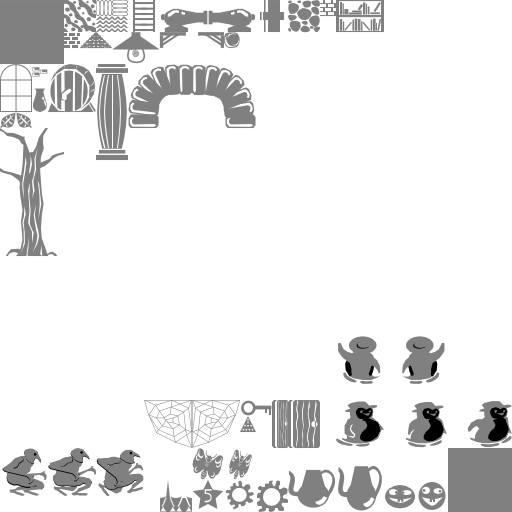
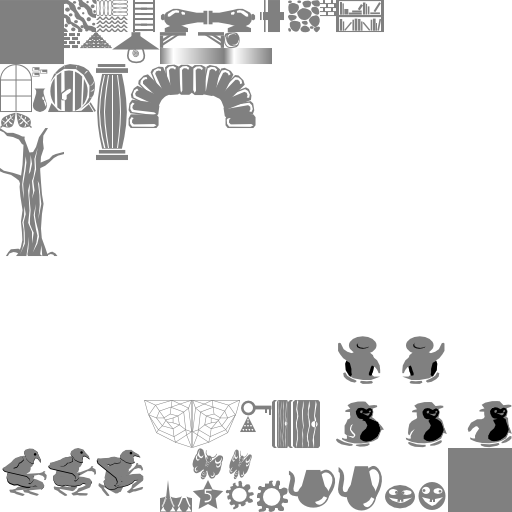
pistons/new room

Changed region(s): [[0.3125, 0.0938, 0.5312, 0.125]]

diff --git a/src/enemy.js b/src/enemy.js
@@ -72,6 +72,28 @@ var vertical_move = function(game_state, sprite, enemy) {
     }
 };
 
+var piston_move = function(game_state, sprite, enemy) {
+    if(!sprite["piston_body"]) {
+        var body = game_state.create_block(sprite.x + 8, sprite.y, "piston2", game_state.enemies, sprite.tint);
+//        cannonball.anchor.x = 0.5;
+//        cannonball.anchor.y = 0.5;
+        sprite["piston_body"] = body;
+    }
+
+    if(sprite.body.velocity.y == 0) sprite.body.velocity.y = enemy.speed;
+    var to_up = sprite.body.velocity.y < 0;
+    var flip = (sprite.body.touching.down && !to_up) ||
+        (sprite.y <= 0 && to_up) ||
+        (sprite.y >= game_state.game.height - sprite.height && !to_up);
+    if (flip) {
+        sprite.body.velocity.y *= -1;
+    }
+
+    sprite.piston_body.height = sprite.y - sprite.piston_body.y;
+
+
+};
+
 var oscillate_move = function(game_state, sprite, enemy) {
     if(!sprite["delta_offset"]) sprite["delta_offset"] = 0.05;
     sprite.anchor.y += sprite.delta_offset;
@@ -93,6 +115,10 @@ var cannonball_move = function(game_state, sprite, enemy) {
     if(hit) sprite.kill();
     else sprite.rotation += sprite.cannon_dir * 0.025 * game_state.game.time.elapsed;
 };
+
+var no_move = function(game_state, sprite, enemy) {
+
+}
 
 var cannon1_move = function(game_state, sprite, enemy) {
     create_cannonball(1, game_state, sprite, enemy);
@@ -174,6 +200,18 @@ var ENEMIES =  {
         seq: [ "butterfly1", "butterfly2" ],
         speed: 100,
         move: zigzag_move,
+        gravity: false
+    },
+    "piston1": {
+        seq: [],
+        speed: 100,
+        move: piston_move,
+        gravity: false
+    },
+    "piston2": {
+        seq: [],
+        speed: 100,
+        move: no_move,
         gravity: false
     }
 };

diff --git a/src/rooms.js b/src/rooms.js
@@ -13,7 +13,8 @@ var WORLD = {
  	garden: ["kitchen", "garden2", null, null],
  	garden2: ["garden", "guesthouse", null, "tunnel2"],
  	guesthouse: ["garden2", null, null, "earth"],
- 	earth: ["tunnel2", null, "guesthouse", null],
+ 	earth: ["tunnel2", "earth2", "guesthouse", null],
+ 	earth2: ["earth", null, null, null],
 };
 
 var DESCRIPTIONS = {
@@ -28,6 +29,7 @@ var DESCRIPTIONS = {
     garden2: "A sunny garden",
     guesthouse: "In the guest house",
     earth: "Earthworks",
+    earth2: "Earthworks",
 };
 
 // rooms cache

diff --git a/src/textures.js b/src/textures.js
@@ -96,6 +96,7 @@ var BLOCKS = [
     ["green_bright", "leaf2"],
     ["red_bright", "cannonball"],
     ["turquoise", "butterfly1"],
+    ["turquoise", "piston1"],
 ];
 
 EXTRA_INFO = {
